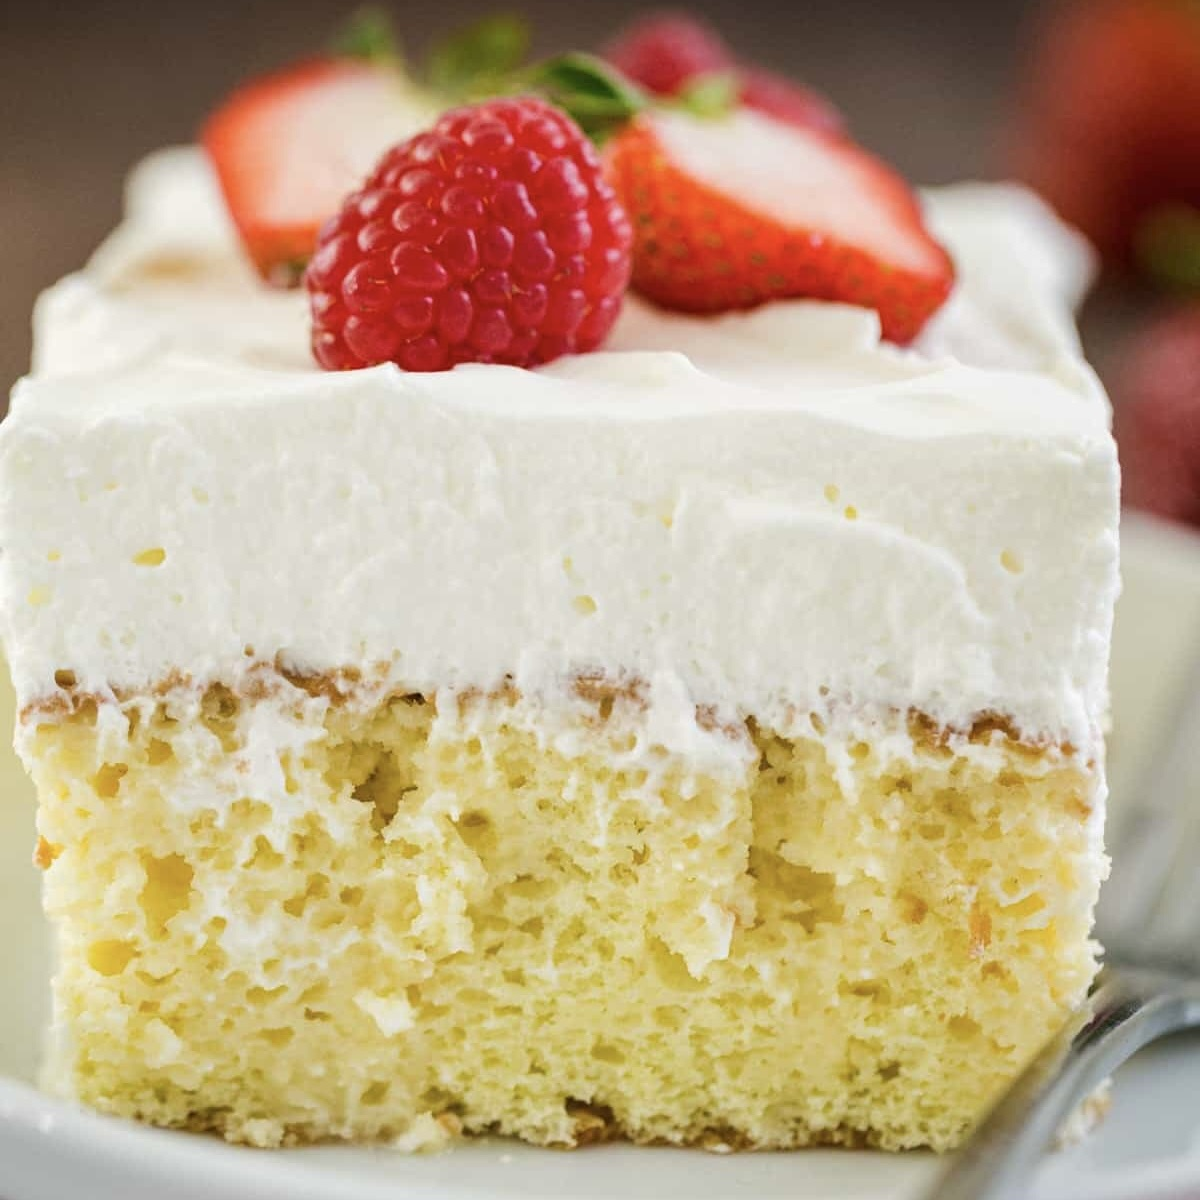
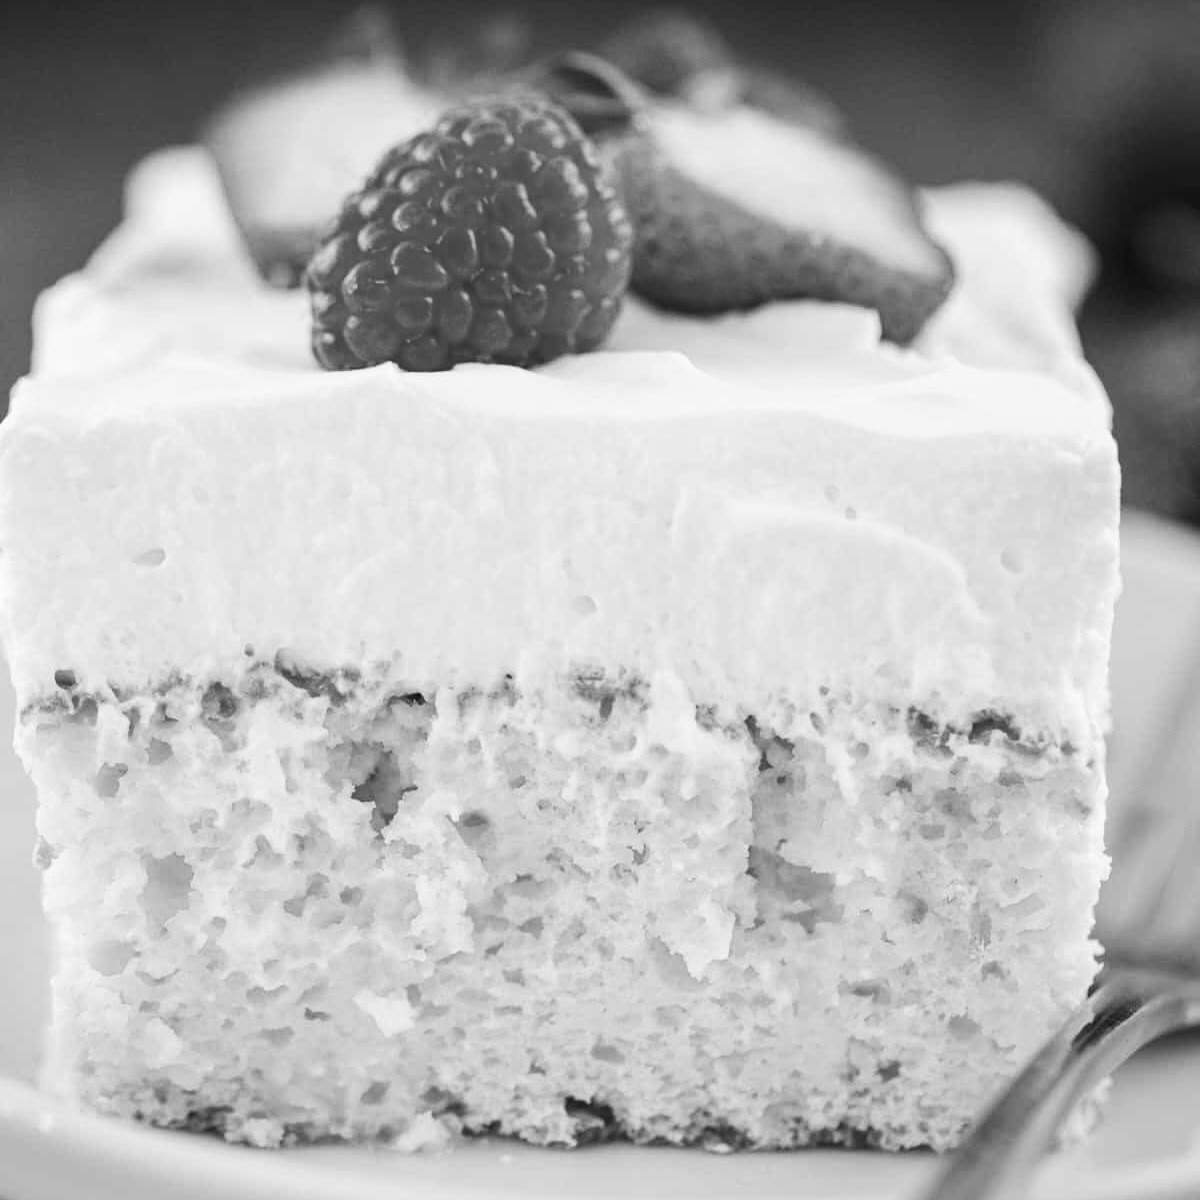
Changes to images and files
-Changed out images of unfinished or not added recipes from color to b&w
-Finished Tuna recipe
-Added extra folder for changed out color images

diff --git a/lunchDinner/tuna.html b/lunchDinner/tuna.html
@@ -1,6 +1,7 @@
 <!DOCTYPE html>
 <html>
 	<head>
+        <!--THIS IS UNFINISHED-->
 		<title>Tuna Recipe</title>
         <meta name="viewport" content="width=device-width, initial-scale=1.0, viewport-fit=cover">
 		<link rel="stylesheet" href="../style/style.css">
@@ -38,10 +39,11 @@
     <div class="main">
         <h1>Tuna Recipe</h1>
         <!--Preface-->
-        <p></p>
+        <p>The ingredients list looks more like a grocery list but that's because it is completely dependent on how much of each ingredient you want. If you like/dislike onion or celery or anything else, you can add a lot or a small amount depending on how you want it.</p>
         <div class="box">
             <h2>Ingredients</h2>
             <ul>
+                <li>Starkist Canned Tuna (<u><b>In Water</b></u>, very important)</li>
                 <li>Miracle Whip</li>
                 <li>Mustard (for color)</li>
                 <li>Onion</li>
@@ -60,8 +62,8 @@
         <h2><br>Instructions</h2>
 
         <div class="steps">
-            <h4>Step 1</h4>
-            <p></p>
+            <h4>Only Step</h4>
+            <p>Chop every ingredient up chunky or thin depending on your preference and mix it all together in one big bowl, and that's it.</p>
         </div>
 
 

diff --git a/index/tortillas.html b/index/tortillas.html
@@ -37,7 +37,7 @@
     
     <div class="main">
         <h1>Flour Tortillas Recipe</h1>
-        <p>This recipe makes around 12-14 tortillas, so keep that in mind later on in the steps.</p>
+        <p>I have tried making this and it is not easy at all, definitely something that will take some time to get right, let alone master. This recipe makes around 12-14 tortillas, so keep that in mind later on in the steps.</p>
         <div class="box">
             <h2>Ingredients</h2>
             <ul>

diff --git a/lunchDinner.html b/lunchDinner.html
@@ -65,6 +65,16 @@
 			</div>	
 		</a>
 		</div>
+		<hr>
+		<div class="card"><a href="lunchDinner/caldo.html">
+			<div class="image">
+				<img src="lunchDinner/images/caldo.jpeg" alt="caldo">
+			</div>
+			<div class="title">
+				<h3>Caldo</h3>
+			</div>	
+		</a>
+		</div>
 	</div>
 
 

diff --git a/dessert/tresLeches.html b/dessert/tresLeches.html
@@ -1,6 +1,7 @@
 <!DOCTYPE html>
 <html>
 	<head>
+        <!--THIS IS UNFINISHED-->
 		<title>Tres Leches Recipe</title>
         <meta name="viewport" content="width=device-width, initial-scale=1.0, viewport-fit=cover">
 		<link rel="stylesheet" href="../style/style.css">
